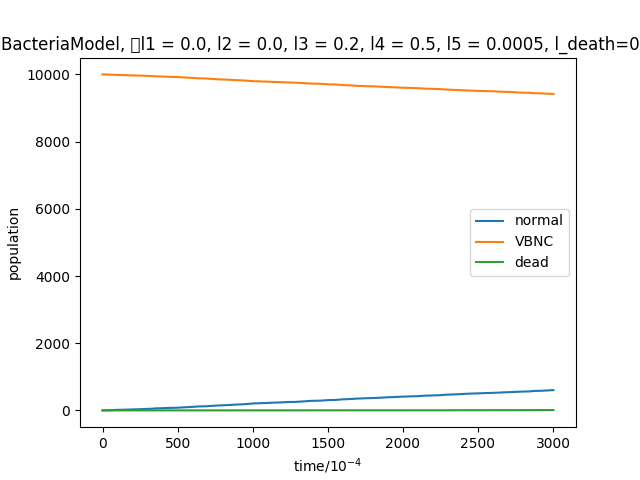
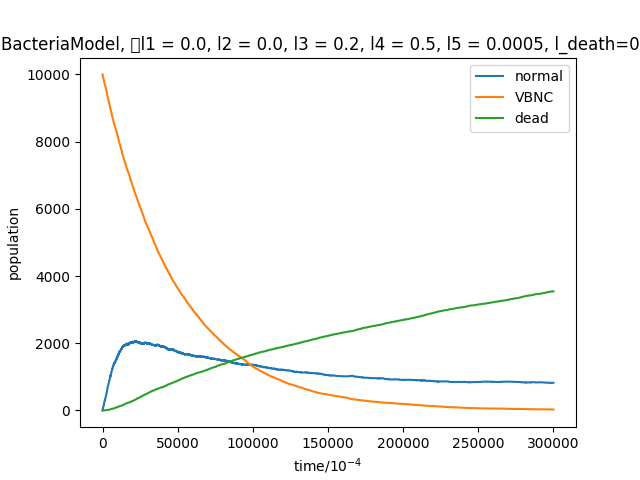
MODIFY model.py

diff --git a/model.py b/model.py
@@ -199,10 +199,12 @@ class SIRModel:
 			for rate_method in rate_methods:
 				t.append(methodcaller(rate_method)(self))
 			t_min = min(t)
+
 			if t_min == float('inf'):
 				break
 
 			l = round(t_min / delta_t)
+
 			for i in range(num_state):
 				data[i] += [data[i][-1] for _ in range(l)]
 
@@ -239,7 +241,7 @@ class BacteriaTransformationModel(SIRModel):
 
 	def getTime_4(self):
 		s = (self.__lambda[3] - self.population_stress * self.state[0]) * self.state[0]
-		return random.expovariate(s) if s else float('inf')
+		return random.expovariate(s) if s > 0 else float('inf')
 
 	def event_4(self):
 		self.state[0] += 1
@@ -252,6 +254,14 @@ class BacteriaTransformationModel(SIRModel):
 		if self.state[0] > 0:
 			self.state[0] -= 1
 			self.state[2] += 1
+
+	def getTime_6(self):
+		s = -(self.__lambda[3] - self.population_stress * self.state[0]) * self.state[0]
+		return random.expovariate(s) if s > 0 else float('inf')
+
+	def event_6(self):
+		if self.state[0] > 0:
+			self.state[0] -= 1
 
 if __name__ == '__main__':
 

diff --git a/simulator.py b/simulator.py
@@ -15,7 +15,7 @@ l4_h = 0.5
 l5_h = 0.0005
 l_death_h = 1.
 
-t_f_even = 30000 # time for equalibrium 
+t_f_even = 300000 # time for equalibrium 
 model_f = BacteriaTransformationModel(l1_f, l2_f, l3_f, l4_f, l_death_f, l5_f, \
  state = [0, 10000, 0], state_name = ["normal", "VBNC", "dead"])
 simulator_f = Simulator(model = model_f)
